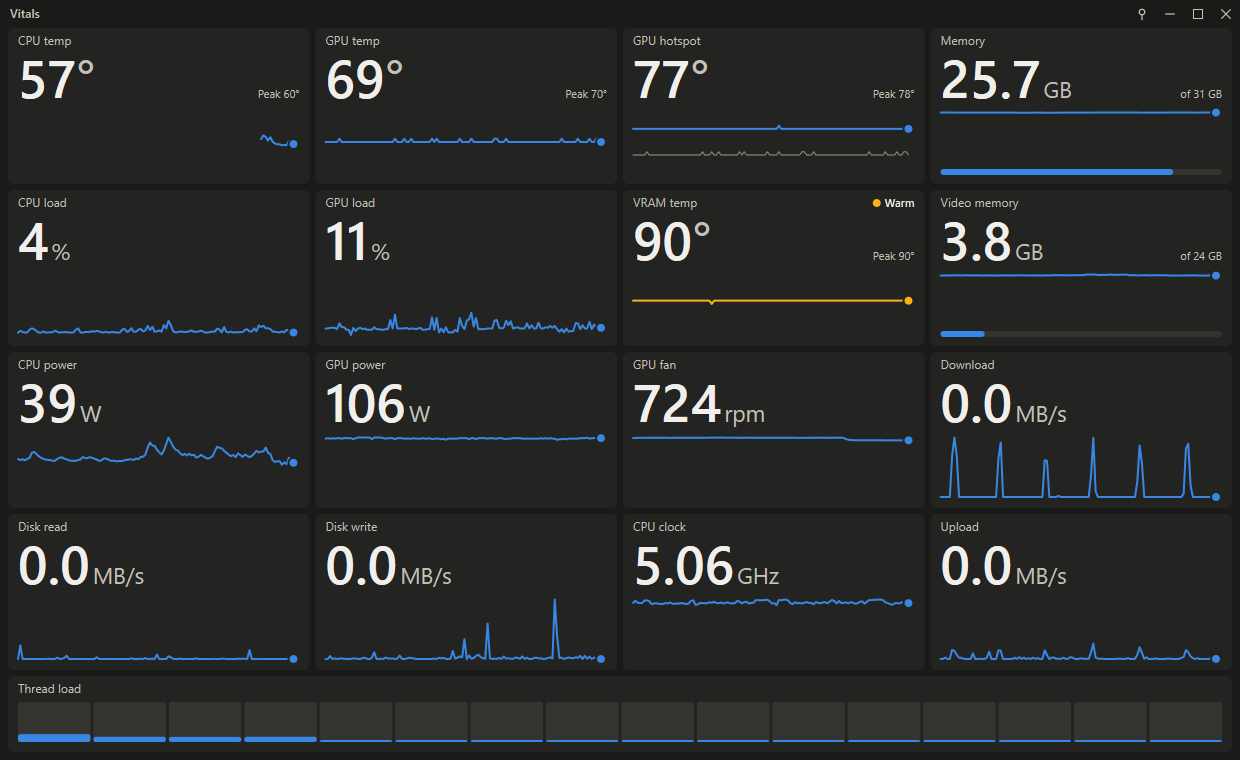
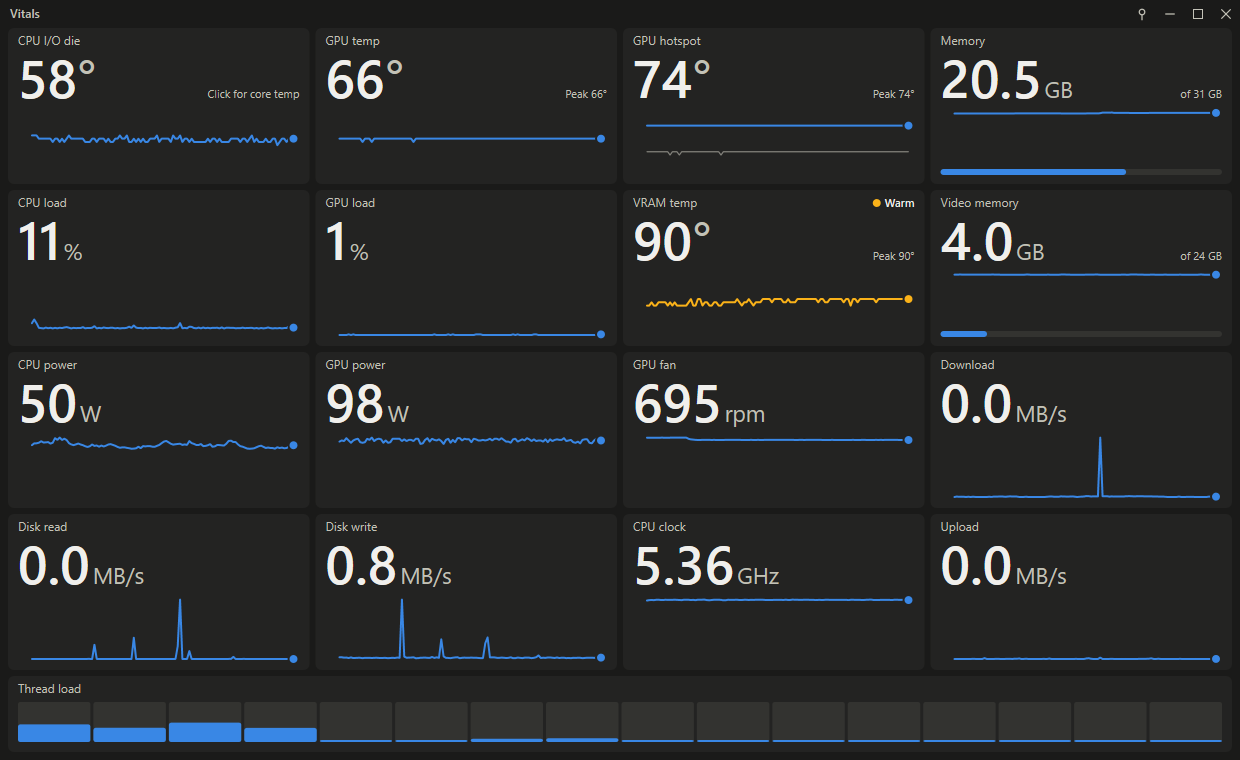
Condense the README and refresh its screenshots
Rewrite the README as short emoji bullets, and move the temperature
limits into a collapsed section. Retake the screenshots from 0.2.0 and
add one of the Busy list.

diff --git a/README.md b/README.md
@@ -1,166 +1,106 @@
-# Vitals
+# 🩺 Vitals
 
-A small, fully resizable sensor monitor for Windows, written in Rust with
-Direct2D. It tracks CPU and GPU temperatures, load, power, memory, disk and
-network in a single 450 KB exe with no runtime dependencies.
+A tiny, fully resizable sensor monitor for Windows, written in Rust. One exe of about 450 KB, with nothing to install.
 
 <p align="center">
-  <img src="docs/images/default.png" width="340" alt="Vitals at its default size: a grid of tiles showing CPU and GPU temperature, memory, GPU hotspot, load and power, each with a live sparkline">
+  <img src="docs/images/default.png" width="340" alt="Vitals at its default size: twelve tiles showing temperatures, memory, load and power, each with a live history line">
+  <img src="docs/images/busy.png" width="340" alt="Vitals with the Busy list showing: a red row for a frozen app with an End button, and a row for an app using 37% of the CPU">
 </p>
 
-## Download
+## ⬇ Download
 
-**[Get the latest release](https://github.com/kyle-barth/vitals/releases/latest)**,
-download `vitals.exe` and run it. There is nothing to install.
+**[Get the latest release](https://github.com/kyle-barth/vitals/releases/latest)**, download `vitals.exe` and run it.
 
-Windows 10 or 11 is required. The exe is not code-signed, so SmartScreen may warn
-you the first time. Choose **More info**, then **Run anyway**. Each release is
-built by GitHub Actions from the tagged source, and lists the file's SHA-256 hash
-so you can check your download.
+- 🪟 Needs Windows 10 or 11
+- ⚠ The exe isn't code-signed, so SmartScreen may warn you the first time. Choose **More info**, then **Run anyway**.
+- 🔏 Each release is built by GitHub Actions from the tagged source, and lists a SHA-256 hash so you can check your download
 
-## One window, any size
+## ✨ Features
 
-The window adapts to whatever size you give it:
+- 🌡 **Temperatures:** CPU, GPU, hotspot and VRAM, each with a session peak. Click a tile to reset its peak.
+- 📈 **Live stats:** load, power, memory, disk, network and fan speed, with history lines
+- 🚦 **Warnings:** Warm adds a label, Hot tints the tile and Critical turns it red. Serious ones also reach the title bar and taskbar, so you can see them while a game covers the window.
+- 🔥 **Busy apps:** only shown when an app is using a lot, with End and a "not responding" warning
+- 📌 **Pin:** keeps the window on top. Position, size and pin state are remembered.
+- 🌗 **Themes:** light and dark, following Windows
+- 🪶 **Light:** about 0.7% of one CPU thread and 35 MB of memory at the default size
 
-| Window | Layout |
-| --- | --- |
-| Slim strip, up to about 145 px tall | One or two lines of key numbers, with no title bar. The controls appear on hover, and you can drag it from anywhere. |
-| Narrow and tall, under 240 px wide | A single column of up to 11 rows |
-| Small to medium | A grid of 2 to 4 columns, ordered by importance |
-| Large, at least 820 × 600 | 16 tiles, plus a bar for every CPU thread |
+<details>
+<summary>🌡 Temperature limits</summary>
+
+Warm / Hot / Critical:
+
+- **CPU core:** 80° / 90° / 95°
+- **CPU I/O die:** 80° / 90° / 100°
+- **GPU edge:** 80° / 90° / 100°
+- **GPU hotspot:** 95° / 105° / 110°
+- **VRAM:** 90° / 100° / 106°
+
+A warning clears once the value is 3° below its limit, so it doesn't flicker. Limits are set in `MetricId::spec` in `src/metrics.rs`.
+
+</details>
+
+## 📐 Any size
+
+- ➖ **Slim strip:** up to about 145 px tall, with one or two lines of key numbers. Controls appear on hover, and you can drag it from anywhere.
+- 📏 **Narrow:** under 240 px wide, with a single column of up to 11 rows
+- 🔲 **Grid:** 2 to 4 columns, ordered by importance
+- 🖥 **Dashboard:** at least 820 × 600, with 16 tiles and a bar for every CPU thread
 
 ![Vitals at a large size: sixteen tiles with history lines, and a load bar for each of the sixteen CPU threads](docs/images/dashboard.png)
 
-![Vitals as a slim strip, showing CPU, GPU and hotspot temperatures with RAM and VRAM use on one line](docs/images/strip.png)
+<p align="center">
+  <img src="docs/images/strip.png" width="320" alt="Vitals as a slim strip, showing CPU, GPU and hotspot temperatures with RAM and VRAM use on one line">
+</p>
 
-## Using it
+## 🔥 Busy apps
 
-- **Temperatures** show a session peak. Click a tile to reset its peak.
-- **Status** is shown in stages: Warm adds a label, Hot tints the tile, and
-  Critical turns it solid red. A metric that is Critical, or Hot but not on
-  screen, also takes over the title bar and the taskbar text, so you can see it
-  while a game covers the window.
-- **The pin button** keeps the window on top.
-- **Position, size and pin state** are remembered in `%APPDATA%\Vitals\settings.ini`.
+The list appears along the bottom of the window only when it's needed. An app is listed once it uses:
 
-### Thresholds
+- 🧮 **CPU:** 25% of the whole CPU
+- 🎮 **GPU:** 25% load
+- 🧠 **Memory:** 20% of your RAM
+- 🎞 **Video memory:** 25% of your VRAM
+- 🥶 **Not responding:** always, however little it's using
 
-| Sensor | Warm | Hot | Critical |
-| --- | --- | --- | --- |
-| CPU core | 80° | 90° | 95° (9800X3D limit) |
-| CPU I/O die | 80° | 90° | 100° |
-| GPU edge | 80° | 90° | 100° |
-| GPU hotspot | 95° | 105° | 110° (RX 7900 XTX limit) |
-| VRAM | 90° | 100° | 106° |
+To keep the window calm:
 
-They are set in `MetricId::spec` in `src/metrics.rs`. Severity drops back only
-once a value is 3° below the threshold, so it does not flicker.
+- ⏱ An app must hold a limit for 5 seconds to appear, and leaves 10 seconds after dropping back
+- 🧩 Processes are grouped by exe, so a browser counts as one app
+- 📋 Rows keep their order, so End can't shift under your pointer. At most 3 show, or 6 in a wide window.
 
-## Busy apps
+### 🛑 Ending an app
 
-A short list appears along the bottom of the window when an app is using a lot.
-On a calm PC there is no list, and the window looks exactly as it always does.
-The tiles shrink to make room, and at most three rows are shown, or six side by
-side in a wide window. A one-line strip keeps its numbers, and a taller strip
-puts the app on its second line.
+Hover a row to reveal **End**, then confirm. Keep, Esc or clicking elsewhere cancels.
 
-| Resource | An app is listed from |
-| --- | --- |
-| CPU | 25% of the whole CPU |
-| GPU | 25% load |
-| Memory | 20% of your RAM |
-| Video memory | 25% of your VRAM |
-| Not responding | Always, however little it is using |
+- 💥 **End is immediate:** every process of that app stops at once, and unsaved work is lost
+- 🥶 **Frozen apps** show End straight away, with their CPU use. Windows also says "not responding" when an app is only busy, so one still using CPU may recover if you wait, while 0% suggests it's stuck.
+- 🔐 **Apps running as administrator** can't be ended, and the row says "Needs admin to end"
+- 🛡 **Windows' own processes** never offer End, because ending one could take down the desktop
 
-An app must hold a limit for 5 seconds to appear, and leaves 10 seconds after
-dropping back, so a brief spike never moves the window around. Rows stay in the
-order they appeared, so an End button can't shift under your pointer. These
-limits are at the top of `src/apps.rs`.
+## 🌡 CPU temperature
 
-Processes are grouped by exe, so a browser's many processes count as one app,
-and its usage is added together.
+Windows has no standard API for this, so Vitals reads what AMD provides:
 
-### Ending an app
+- 🟡 **Without admin rights:** the tile shows the I/O die, labelled "CPU I/O die". This is not a core temperature.
+- 🟢 **Click that tile** for the true core temperature, labelled "CPU temp". This starts a small helper with admin rights. Windows normally shows a UAC prompt, but if prompts are turned off it happens silently, so the click is the only consent.
+- 🔁 **It repeats at each launch** until a prompt is declined. To stop it, set `core_temp=0` in `%APPDATA%\Vitals\settings.ini`.
+- ⚠ **It relies on an undocumented AMD export** in `Platform.dll`, worked out on a 9800X3D, so an AMD Software update could change it. Every field is range-checked, so the tile would stay on the I/O die rather than show a wrong number.
 
-Hover a row to reveal **End**, then confirm. Pressing Keep, clicking elsewhere or
-pressing Esc cancels, and the question goes away by itself after 10 seconds.
+## 🔒 Security
 
-- **End is immediate.** Every process of that app stops at once, as with End task
-  in Task Manager, and unsaved work is lost.
-- **A frozen app** shows End straight away, and also reaches the taskbar text. Its
-  CPU use is shown too: Windows also calls an app "not responding" when it is only
-  busy, so one still using CPU may recover if you wait, while 0% suggests it is stuck.
-- **Apps running as administrator** can't be ended, because Vitals runs without
-  admin rights. The row says "Needs admin to end".
-- **Windows' own processes** can appear if they get busy, but never offer End,
-  because ending one could take down the desktop.
+- 👤 The main app never runs elevated
+- 📡 The helper only sends one reading per second down a one-way pipe, and exits as soon as the pipe closes
+- 📁 It loads AMD's DLL by full path from Program Files, which only administrators can write to
+- 🧱 The exe resolves its DLLs from System32 only, so a malicious DLL sitting in Downloads can't run inside it
 
-## CPU temperature
+## 🖥 Hardware
 
-Windows has no standard API for CPU temperature, so Vitals reads what AMD
-provides:
+- ✅ Built and tested on a Ryzen 7 9800X3D with a Radeon RX 7900 XTX
+- 🌐 Load, memory, disk and network work on any PC
+- 🔴 GPU sensors need an AMD GPU. On other hardware those tiles show a dash.
 
-- **Without admin rights**, the CPU tile shows the **I/O die** temperature, from
-  the integrated GPU's sensors. It is labelled "CPU I/O die" and is not a core
-  temperature: under a 16-second all-thread load it did not move at all.
-- **Clicking that tile** elevates the helper, then shows the true core temperature,
-  labelled "CPU temp". Windows normally shows a UAC prompt for this. If UAC
-  prompts are turned off it happens silently, so the click is the only consent.
-  Vitals repeats this at each launch until a prompt is declined. To stop it, set
-  `core_temp=0` in `settings.ini`.
-
-The core reading comes from `GetRmCpuParameters` in AMD's `Platform.dll`, which
-is installed with AMD Software. AMD does not document that export. Its layout
-was worked out on a 9800X3D, so an AMD Software update could change it.
-`sensors::ryzen::parse` range-checks every field, so a changed layout means the
-tile stays on the I/O die rather than showing a wrong number.
-
-### Why there is a helper process
-
-The UI never runs elevated. Clicking the tile starts this same exe a second time
-with `--cpu-helper`, elevated, and that process does nothing except send one
-reading per second down a one-way pipe:
-
-- It reads nothing from the pipe, so the UI cannot ask it to do anything else.
-- It exits as soon as the pipe closes, so it cannot outlive the UI.
-- A fault in AMD's library ends the helper, not the UI.
-- It loads AMD's DLL by a full path from Program Files, which only
-  administrators can write to, and connects to the pipe anonymously so that the
-  unelevated pipe owner cannot impersonate it.
-- It accepts only a numeric pipe name, and refuses anything that is not a pipe.
-- The UI accepts readings only from the process it started.
-
-The exe also resolves its DLLs from System32 only. Windows would otherwise check
-the exe's own folder first, which is often Downloads, so a malicious DLL sitting
-there could run inside the app, and with admin rights in the helper.
-
-## Hardware support
-
-Built for and tested on a Ryzen 7 9800X3D with a Radeon RX 7900 XTX. Load,
-memory, disk and network work on any PC. GPU sensors currently need an AMD GPU,
-and on other hardware those tiles show a dash.
-
-## Efficiency
-
-Measured at the default size while a game was running:
-
-| | |
-| --- | --- |
-| Exe size | 446 KB |
-| Smallest window | 190 × 36 |
-| CPU | 0.6% of one thread, or 0.04% of a 16-thread CPU |
-| Memory | 38 MB working set, 16 MB private |
-| Repaint during live resize | 8.8 ms |
-
-Memory rises after resizing to very large windows, then settles at about 45 MB
-working set. Over 1,500 resizes the handle count stayed flat at 332, and private
-memory peaked at 52 MB before falling back to 27 MB, so it is cache, not a leak.
-
-Rendering uses Direct2D's software backend. On this app that used the same CPU
-as the hardware backend, with less than half the memory and no load on the GPU
-being monitored. Vitals also requests Windows efficiency mode.
-
-## Building
+## 🛠 Building
 
 Needs Rust 1.85 or later and the MSVC toolchain with the Windows SDK.
 
@@ -168,53 +108,11 @@ Needs Rust 1.85 or later and the MSVC toolchain with the Windows SDK.
 cargo build --release
 ```
 
-```bash
-cargo test
-```
+- 📦 The exe is written to `target/release/vitals.exe`
+- 🧪 Run the tests with `cargo test`
+- 🩹 If the linker reports `LNK1104`, the project path is too long. Build from a shorter path, or set `CARGO_TARGET_DIR` to one.
+- 🏷 Pushing a version tag runs [the release workflow](.github/workflows/release.yml). Changes are listed in [CHANGELOG.md](CHANGELOG.md).
 
-The exe is written to `target/release/vitals.exe`. If the linker reports
-`LNK1104` for a build script, the project path is too long for Windows. Build
-from a shorter path, or set `CARGO_TARGET_DIR` to one.
-
-## Releases
-
-Versions follow [Semantic Versioning](https://semver.org), and each one is listed
-in [CHANGELOG.md](CHANGELOG.md). To publish a new version:
-
-1. Update the version in `Cargo.toml`, `assets/app.rc` and `assets/app.manifest`.
-   The build fails if they disagree.
-2. Add a section for it to `CHANGELOG.md`, and merge to `main`.
-3. Tag that commit and push the tag:
-
-```bash
-git tag -a v0.2.0 -m "Vitals 0.2.0"
-```
-
-```bash
-git push origin v0.2.0
-```
-
-[The release workflow](.github/workflows/release.yml) then lints, tests, builds
-and publishes the exe. It refuses to run if the tag and `Cargo.toml` disagree, or
-if `CHANGELOG.md` has no section for that version.
-
-## Layout of the code
-
-| Path | Purpose |
-| --- | --- |
-| `src/window.rs` | The Win32 window, input and Snap support |
-| `src/ui.rs` | Painting |
-| `src/layout.rs` | Pure window layout, tested across thousands of sizes |
-| `src/gfx.rs` | A thin Direct2D and DirectWrite layer |
-| `src/metrics.rs` | What is tracked, and its state |
-| `src/severity.rs`, `src/history.rs` | Status rules and fixed-size history |
-| `src/apps.rs` | Which apps are busy enough to show, and in what order |
-| `src/sensors/` | The sampler thread, and process, ADL, PDH and Ryzen Master access |
-| `src/helper.rs` | The elevated helper and the UI's link to it |
-| `src/settings.rs` | Saved preferences |
-| `designs/` | The original HTML design directions |
-| `docs/images/` | The screenshots in this README |
-
-## License
+## 📄 License
 
 Released under the [MIT License](LICENSE).
